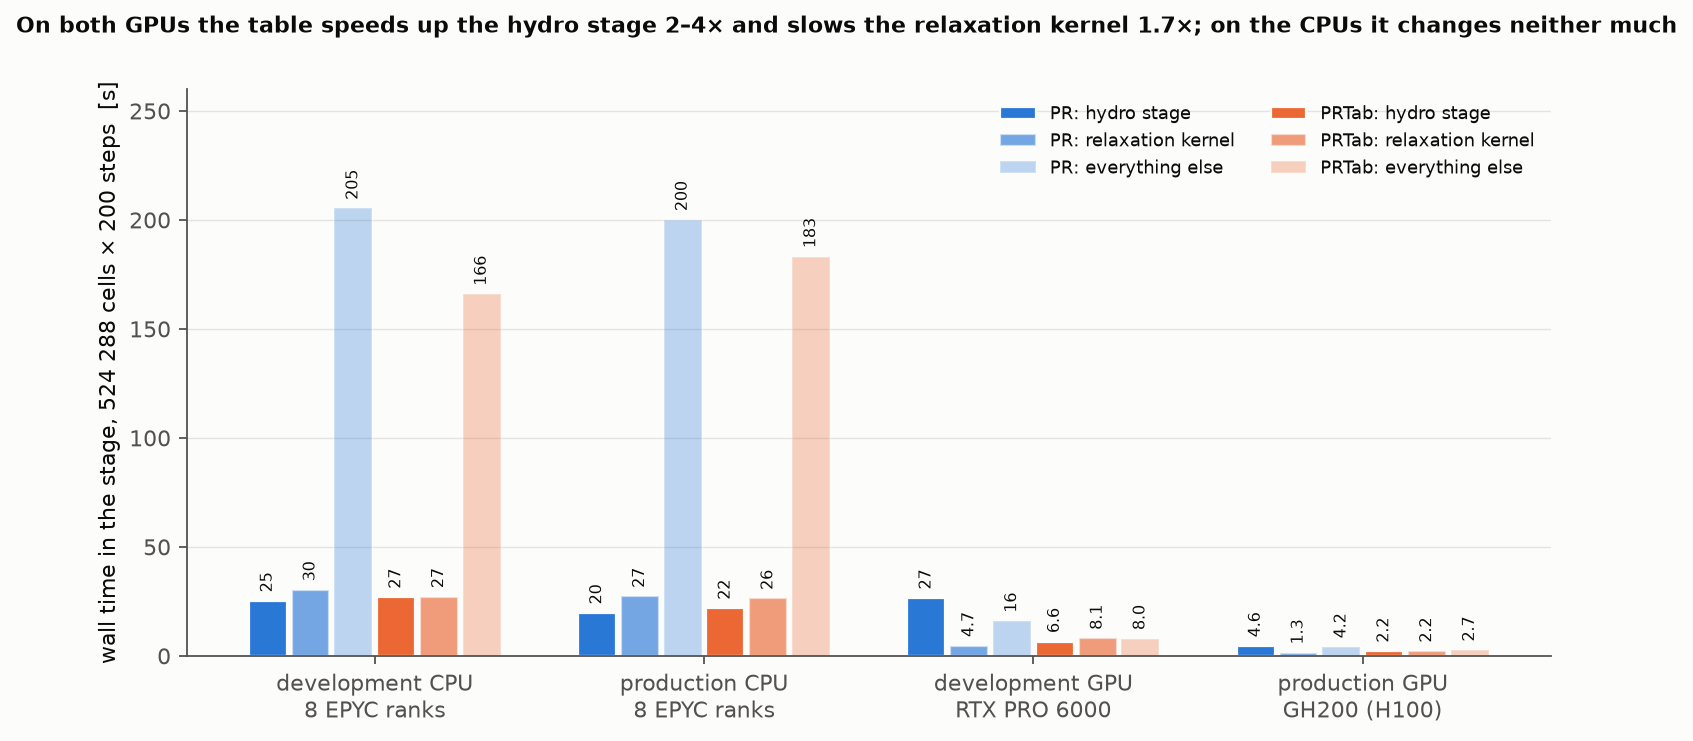
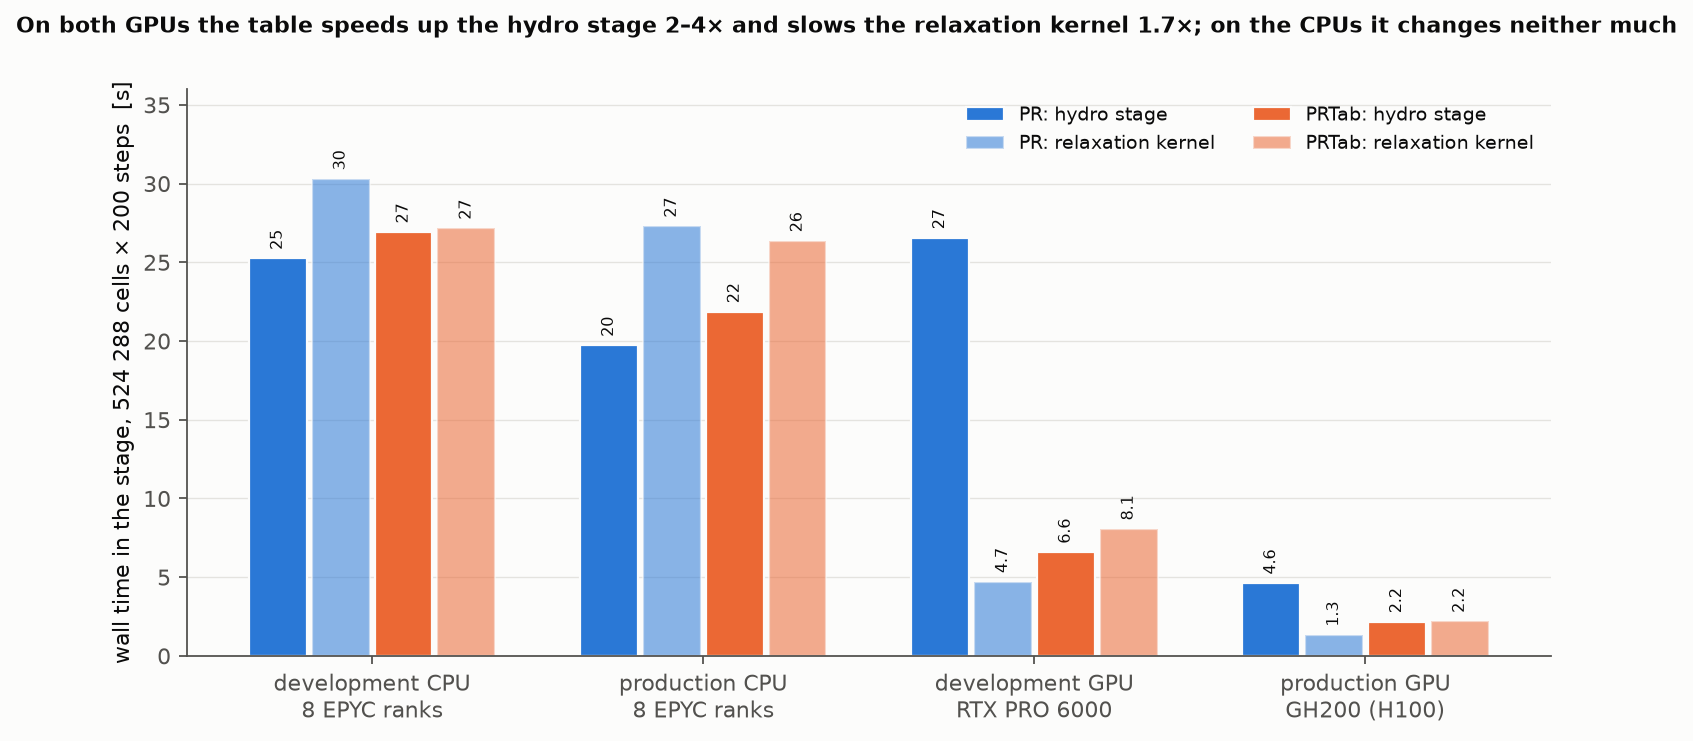
Figure 6 plots the hydro stage and the relaxation kernel only; FUTURE_WORK §11: the state-hygiene EOS calls (floor, computeTemp, boundary fill) and the CPU relaxation imbalance as a tuning item, with the device-sync attribution check

diff --git a/Exec/EOS_Surrogate/make_figures.py b/Exec/EOS_Surrogate/make_figures.py
@@ -197,8 +197,7 @@ def parse_profile_incl(log, kernels):
     return tot, t
 
 def fig6_stage_split(style='log'):
-    """Three-way split of each run: the hydro stage (advance_hydro_umdrv, inclusive), the relaxation kernel (inclusive),
-    and everything else (clean_state, floors, dt estimate, boundary fills, mass transfer). PR against PRTab on two CPUs
+    """The hydro stage (advance_hydro_umdrv, inclusive) and the relaxation kernel (inclusive) of each run, PR against PRTab on two CPUs
     and two GPUs, 524 288 cells, 200 steps. style: 'log' (one axis), 'linear' (one axis), 'panels' (CPU and GPU panels, linear)."""
     logs = {('development CPU\n8 EPYC ranks', 'PR'): os.path.join(PB, 'runs/bench/L0big_200/PR_cpu/run.log'),
             ('development CPU\n8 EPYC ranks', 'PRTab'): os.path.join(PB, 'runs/bench/L0big_200/PRTab_cpu/run.log'),
@@ -213,25 +212,28 @@ def fig6_stage_split(style='log'):
         tot, hydro = parse_profile_incl(log, ('CAMR::advance_hydro_umdrv()',))
         _, relax = parse_profile_incl(log, ('PS::ps_apply_relaxation()',))
         return {'hydro': hydro, 'relax': relax, 'rest': max(tot - hydro - relax, 0)}
-    series = [('PR', 'hydro', 'PR: hydro stage', 1.0), ('PR', 'relax', 'PR: relaxation kernel', 0.65), ('PR', 'rest', 'PR: everything else', 0.3),
-              ('PRTab', 'hydro', 'PRTab: hydro stage', 1.0), ('PRTab', 'relax', 'PRTab: relaxation kernel', 0.65), ('PRTab', 'rest', 'PRTab: everything else', 0.3)]
+    # Only the two kernels the argument is about.  The remainder of each run (state hygiene, floors, dt estimate,
+    # boundary fills, and on the CPU the ranks' wait on the relaxation imbalance) is deliberately not plotted:
+    # see FUTURE_WORK.md §11 for what it is and why it is a separate item.
+    series = [('PR', 'hydro', 'PR: hydro stage', 1.0), ('PR', 'relax', 'PR: relaxation kernel', 0.55),
+              ('PRTab', 'hydro', 'PRTab: hydro stage', 1.0), ('PRTab', 'relax', 'PRTab: relaxation kernel', 0.55)]
     if style == 'panels':
         fig, axes = plt.subplots(1, 2, figsize=(11, 4.6), gridspec_kw={'width_ratios': [1, 1]})
-        groups = [(axes[0], plats[:2], 260), (axes[1], plats[2:], 30)]
+        groups = [(axes[0], plats[:2], 36), (axes[1], plats[2:], 32)]
     else:
-        fig, ax = plt.subplots(figsize=(11, 4.6)); groups = [(ax, plats, 260 if style == 'linear' else None)]
-    w = 0.13
+        fig, ax = plt.subplots(figsize=(11, 4.6)); groups = [(ax, plats, 36 if style == 'linear' else None)]
+    w = 0.19
     for ax, pl, top in groups:
         x = np.arange(len(pl))
         for i, (b, part, label, alpha) in enumerate(series):
-            xs = x + (i - 2.5) * w; vals = [split(logs[(p, b)])[part] for p in pl]
+            xs = x + (i - 1.5) * w; vals = [split(logs[(p, b)])[part] for p in pl]
             ax.bar(xs, vals, width=w - 0.015, color=BACKEND[b], alpha=alpha, edgecolor=SURF, linewidth=1, label=label)
             for xi, v in zip(xs, vals):
                 ax.text(xi, v * 1.12 if style == 'log' else v + 0.015 * top, f'{v:.0f}' if v >= 10 else f'{v:.1f}', ha='center', va='bottom', fontsize=7, color=INK, rotation=90)
-        if style == 'log': ax.set_yscale('log'); ax.set_ylim(0.5, 2000)
+        if style == 'log': ax.set_yscale('log'); ax.set_ylim(0.5, 100)
         else: ax.set_ylim(0, top)
         ax.set_xticks(x); ax.set_xticklabels(pl)
-    groups[0][0].set_ylabel('wall time in the stage, 524 288 cells × 200 steps  [s]'); groups[-1][0].legend(loc='upper right', fontsize=8, ncol=2)
+    groups[0][0].set_ylabel('wall time in the stage, 524 288 cells × 200 steps  [s]'); groups[-1][0].legend(loc='upper right', fontsize=8.5, ncol=2)
     fig.suptitle('On both GPUs the table speeds up the hydro stage 2–4× and slows the relaxation kernel 1.7×; on the CPUs it changes neither much', fontsize=10, fontweight='bold', y=0.98)
     if style == 'panels': fig.tight_layout(rect=(0, 0, 1, 0.95))
     save(fig, {'log': 'fig6_stage_split.png', 'linear': 'fig6_stage_split_linear.png', 'panels': 'fig6_stage_split_panels.png'}[style])

diff --git a/docs/FUTURE_WORK.md b/docs/FUTURE_WORK.md
@@ -124,3 +124,24 @@ The interface to SINTEF's thermotabulation software (the external tabulated-EOS 
 **The GERG-run deck** (`Exec/CO2_PipeBreak/bench/gerg_deck.sh`, 2026-10-27) exists for the Helmholtz side of this comparison: the pipe-break deck integrated by GERGTab from t = 0 to step 390 (1.70 ms; at step 398 the GERG contract refuses a vapour cell 0.1 % below the triple-point energy, B6), cells harvested under GERG from step 350 and replayed. On those 1 102 cells X3F is 222× cheaper than X3 and agrees with it to X3's tolerance, at 40 µs per cell against 3.5 µs under PR: the forward Helmholtz call (1.25 µs) is 10 of its 12 µs-equivalents, which is item 1 above measured. The deck's reach on the GERG surface (1.7 ms of a 25 ms event) is itself a finding for the backend comparison: a run that has to go further needs either the sub-triple vapour admitted on the Helmholtz surface (a contract decision, B6) or the T-floor fold holding at the triple energy through the step.
 
 **Plan when it is taken up:** (i) restore the interface behind `EOS_contract.H` with `REY2PTS_phase_try` and `RTY2PESCv_phase` (both branches, refusal channel, partials); (ii) run the 1-D gates and the guard census; (iii) run `backend_bench.sh` (hydro stage) and `bench/x3f_ladder.sh` on both cell sets (relaxation stage, X3 and X3F) against PR/PRTab and GERG/GERGTab; (iv) decide its role from the stage timings, expecting item 1 to be where it wins if it can tabulate per-branch continuations, and item 3 to be a tie with PRTab.
+
+## 11. State hygiene calls the EOS three to four times per cell per step — tune it (noted 2026-10-27)
+
+Found while splitting the 524 k-cell, 200-step pipe-break bench (`runs/bench/L0big_200`, PR, mode 2) into stages for the platform slide. Outside the two kernels the talk is about (the hydro stage and the relaxation kernel), the run spends most of its CPU time in per-cell hygiene passes that each call the EOS, and the GPU run spends a smaller but comparable share there. Per-rank exclusive times, development CPU (8 EPYC ranks, 261 s total) and development GPU (RTX PRO 6000, 47 s total):
+
+| region | CPU min / avg / max over ranks [s] | GPU [s] | what it does per cell |
+|---|---|---|---|
+| `CAMR::clean_state()` (8 calls per step) | 83 / 86 / 91 | 1.4 | α and mass sanitising, then `reset_internal_energy`, and on the final call `computeTemp`: one (ρ, e) → T inversion per cell to fill the UTEMP diagnostic slot |
+| `ps_apply_floor` (1 per step) | 46 / 48 / 49 | 1.4 | per phase, `RTY2PE_auto` at the temperature floor and `RYP2E` at the pressure floor: two EOS calls per phase per cell, every step, whether or not any floor is active |
+| `StateDataPhysBCFunct` (boundary fill) | — | 7.5 (PRTab 2.1) | ghost-cell fills that invert the EOS; the table cuts it 3.5× |
+| `estTimeStep` | 3.5 / 47 / 54 | 3.4 | one sound speed per cell (the 3.5 s); the rest of the CPU average is ranks waiting at the dt reduction for the slowest rank's relaxation (relaxation min / max over ranks 24.5 / 66.6 s) |
+
+So on the CPU about 135 s of the 261 s run is EOS calls made for hygiene, against 25 s in the hydro stage and 30 s (average; 67 s on the slowest rank) in the relaxation kernel. Three items, in order of return:
+
+1. **The floor pass.** `ps_apply_floor` evaluates both floors for both phases in every cell every step. The floors act on a handful of cells; evaluate the EOS only where the state is within reach of a floor (a cheap pre-test on e_k against e(T_floor) and on the mixture pressure), or fold the test into the hydro stage's `ctoprim`, which already has T_k for every cell. Bound: ~48 s of the CPU run, ~1.4 s of the GPU run.
+2. **The temperature refresh in `clean_state`.** `computeTemp` inverts the EOS once per cell on the last `clean_state` of the step to fill UTEMP, which the conserved evolution never reads (`CAMR.lazy_temp=1` already skips the intermediate calls). Fill UTEMP from the hydro stage's own inversion (ctoprim has T_k per cell at the start of the step) or only on plot steps. The remaining `clean_state` cost (the seven intermediate calls) is sanitising and `reset_internal_energy`, which should be profiled separately before deciding whether it is EOS-bound. Bound: up to ~85 s of the CPU run.
+3. **The relaxation load imbalance on the CPU.** The two-phase region sits on a few ranks; the slowest rank spends 2.7× the average in the relaxation kernel and the others wait at the next collective (~55 s of the 261 s run appears as `estTimeStep` and `CAMR_advance` wait). Mode 6 (X3F, 5–50× cheaper per cell) shrinks the absolute imbalance but not its ratio; a cost-aware distribution map (weight boxes by their two-phase cell count) is the standard AMReX remedy. A single-rank GPU run has no such term.
+
+None of this changes the EOS-strategy conclusions of the talk: the ranking and the GPU kernel-structure argument are the same with or without these passes. It changes the CPU run-time budget, where the hygiene passes are a larger lever than any EOS backend choice (the table buys 1.2×; items 1–2 bound at ~2×). Measure after each item with `bench/backend_bench.sh` (TAG=L0big_200 NCELL="1024 512" MAXGRID=128) and `bench/compare_runs.py` against the step-200 plotfile, which must be unchanged.
+
+Profiling note for the device: the GPU stage times above were checked against runs with `tiny_profiler.device_synchronize_around_region=1` (`runs/bench/L0big_attr_{nosync,sync}`): the relaxation, hygiene, floor, dt and mass-transfer regions are unchanged to three digits with synchronisation (they already end at device sync points), while the hydro stage and the boundary fill double because their thousands of small launches each pay the sync. The unsynchronised numbers are therefore the right ones for every region, and the hydro bar is what the total leaves after the synchronous regions are subtracted.
